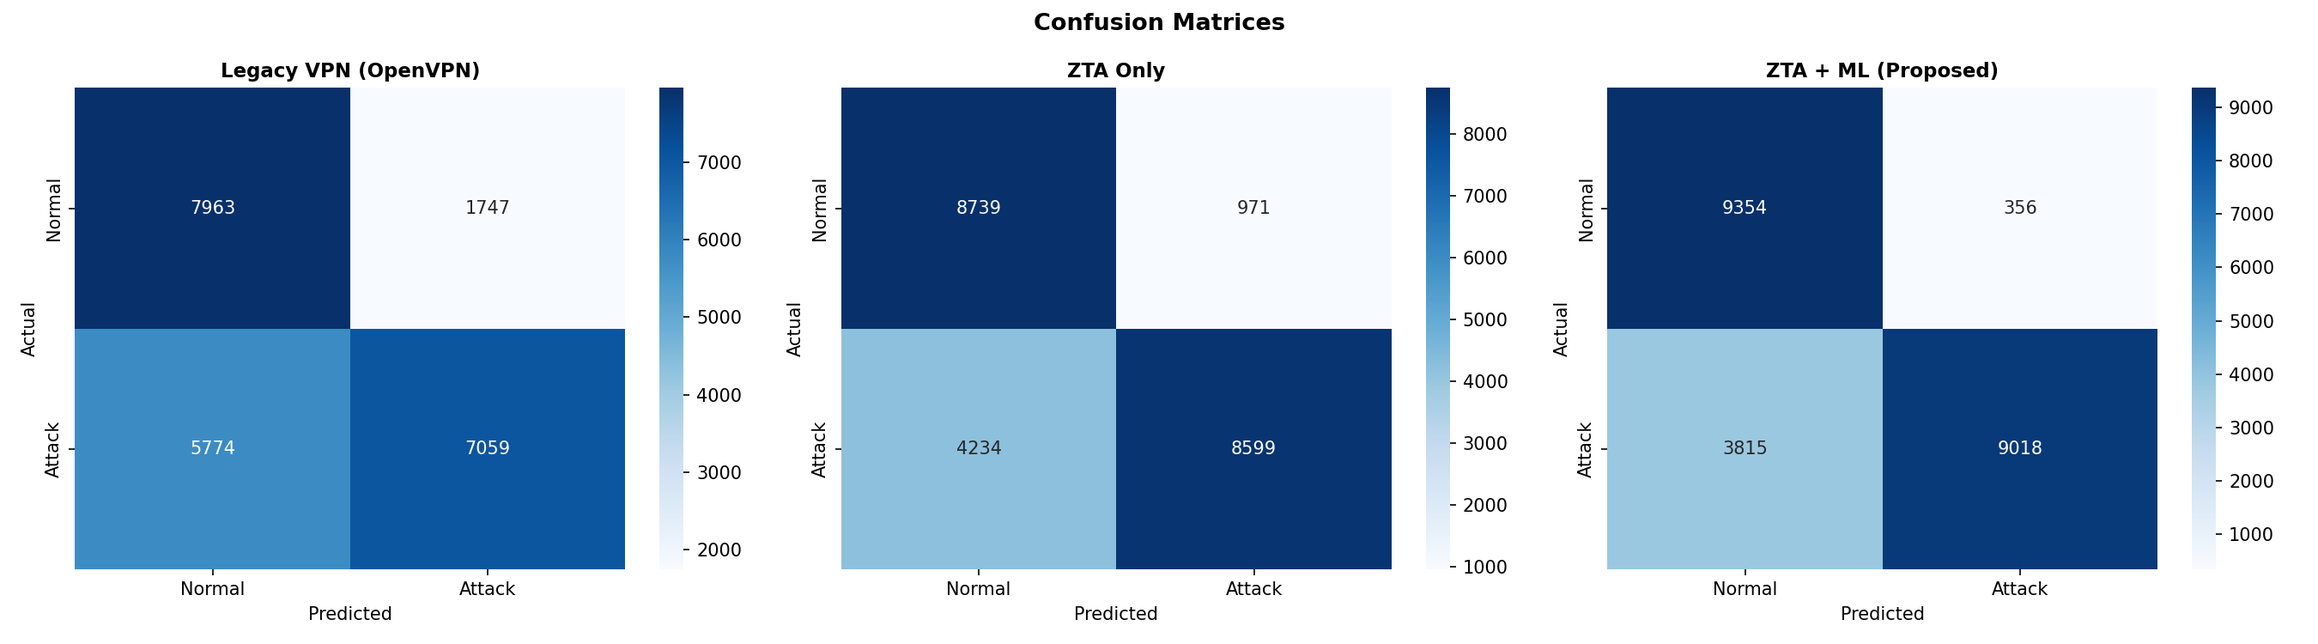
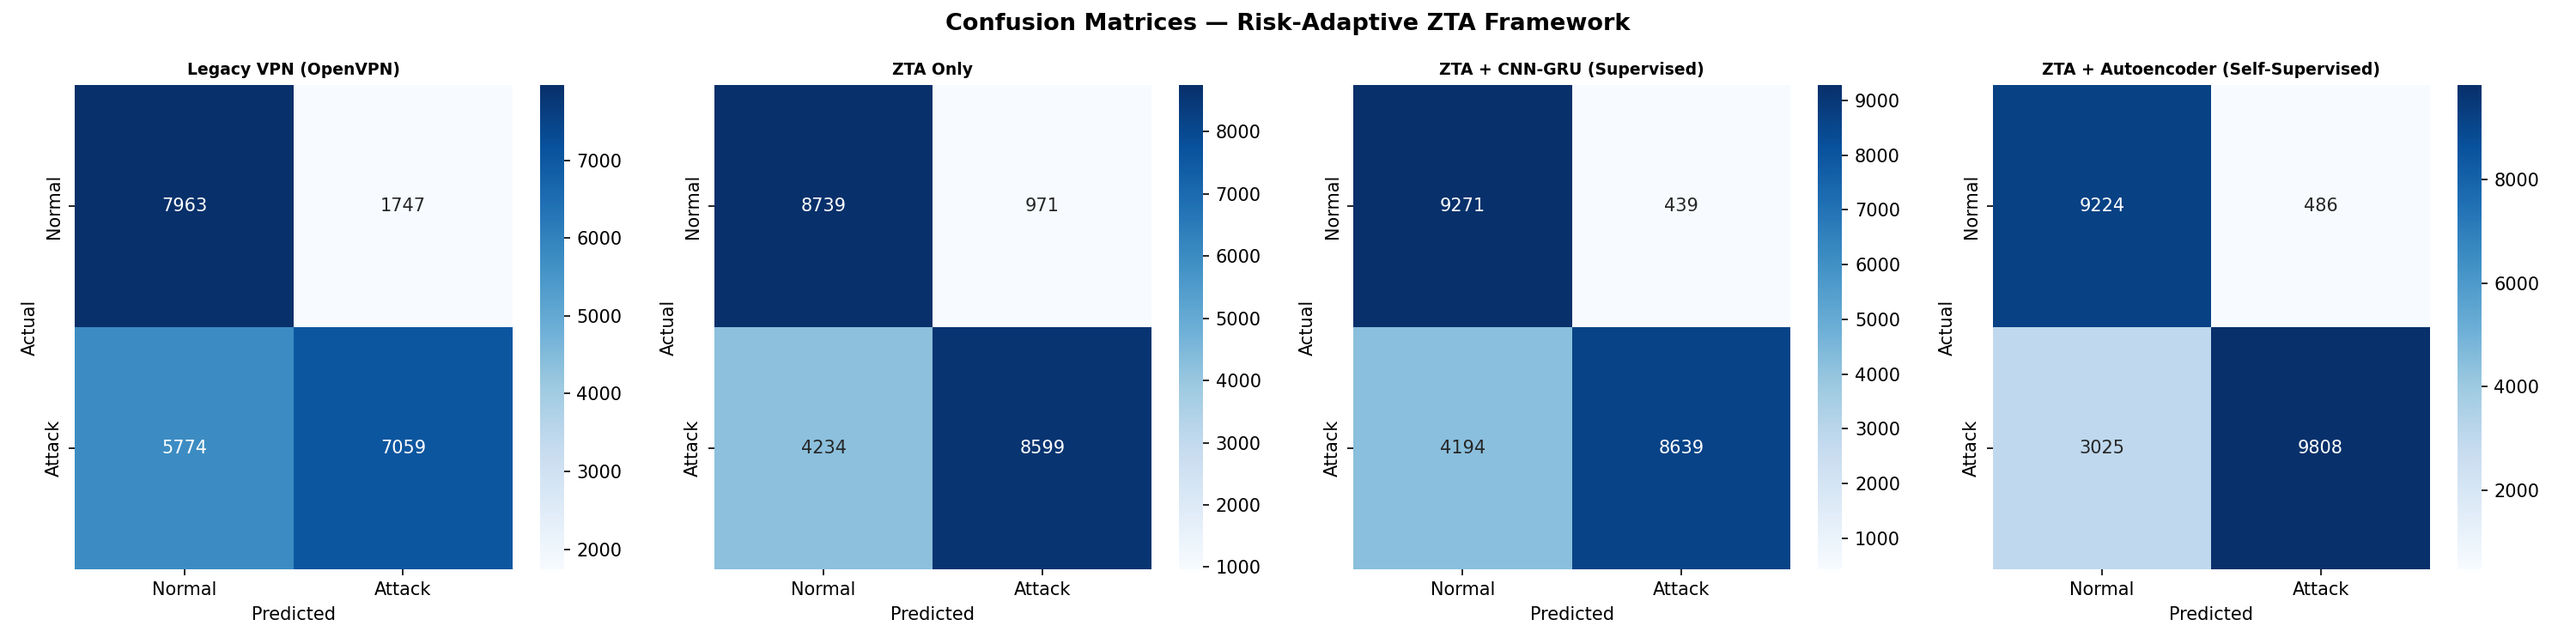
feat: run 4-way evaluation with real autoencoder (System D)
Replace System D's simulation fallback in src/evaluate.py with real
autoencoder predictions via load_autoencoder + the saved 95th-pct threshold
(data/ae_threshold.pkl). All four systems are now evaluated on the SAME
NSL-KDD test set with identical metrics, plus a measured per-prediction
inference latency and per-attack-category detection (zero-day capability).
No CNN-GRU / autoencoder retraining; 40-feature preprocessing and scaler
unchanged.

Commands run:
  python -c "import tensorflow"            -> TF 2.21.0, protobuf 6.31.1 OK
  $env:TF_CPP_MIN_LOG_LEVEL='2'; python src/evaluate.py
  -> completed end-to-end (exit code 1 is a PowerShell NativeCommandError
     artifact from TF stderr warnings; Python printed the final table and
     saved all outputs).

System D sanity check: metrics match data/autoencoder_training_results.json
exactly (acc 0.8443, F1 0.8482, FPR 0.0501, threshold 0.002682, mean err
normal 0.000792, mean err attack 0.015131) -> the test-set feature space is
consistent with the trained autoencoder (same scaler/encoders).

FINAL 4-WAY COMPARISON (Accuracy / F1 / FPR / latency-ms-per-sample /
DoS / Probe / R2L / U2R detection / Zero-Day flag):
  Legacy VPN (OpenVPN)            0.6664 0.6524 0.1799 0.0001 0.5497 0.5477 0.5532 0.5373 False
  ZTA Only                        0.7691 0.7677 0.1000 0.0000 0.6674 0.6774 0.6724 0.5970 False
  ZTA + CNN-GRU (Supervised)      0.7945 0.7886 0.0452 0.5889 0.8170 0.5713 0.3941 0.3582 False
[…]

diff --git a/src/evaluate.py b/src/evaluate.py
@@ -8,6 +8,16 @@ Four-way comparative evaluation for the Risk-Adaptive ZTA framework:
   System C — ZTA + CNN-GRU (Supervised)  : Zero Trust + known attack classifier
   System D — ZTA + Autoencoder (Self-Supervised) : Zero Trust + zero-day detector
 
+All four systems are scored on the SAME NSL-KDD test set with the SAME
+metrics (Accuracy, F1, FPR, measured per-prediction latency, and
+per-attack-type detection) so the comparison is controlled and fair.
+
+  System C uses the trained CNN-GRU classifier   (data/cnn_gru_model.keras)
+  System D uses the trained autoencoder + 95th-pct threshold
+             (data/autoencoder_model.keras + data/ae_threshold.pkl)
+  Systems A/B are simulated baselines (no ML model exists for them — they
+  represent architectures without anomaly detection).
+
 Usage:
     python src/evaluate.py
     python src/evaluate.py --test data/NSL_KDD_Test.csv \\
@@ -41,6 +51,9 @@ from autoencoder import load_autoencoder, predict_anomaly
 
 # ── Attack scenarios tested ───────────────────────────────────────────────────
 SCENARIOS = ['DoS', 'Probe', 'R2L', 'U2R']
+
+# Integer codes for the four attack categories (preprocess.ATTACK_MAP)
+ATTACK_CATEGORIES = [1, 2, 3, 4]   # DoS, Probe, R2L, U2R
 
 # ── System capability profiles ────────────────────────────────────────────────
 # These model realistic detection rates reported in related literature.
@@ -117,6 +130,9 @@ def simulate_predictions(y_true: np.ndarray,
 
     A system with higher `noise_level` misses more attacks.
     `fpr_base` controls how often it falsely flags normal traffic.
+
+    Used only for the non-ML baselines (Legacy VPN, ZTA Only), which by
+    design have no trained model to evaluate.
     """
     y_binary = (y_true > 0).astype(int)   # 1 = any attack
     y_pred   = y_binary.copy()
@@ -137,10 +153,34 @@ def simulate_predictions(y_true: np.ndarray,
     return y_pred
 
 
+def per_category_detection(y_true_multiclass: np.ndarray,
+                           y_pred: np.ndarray,
+                           categories=ATTACK_CATEGORIES) -> dict:
+    """
+    Per-attack-category detection rate: for each attack category, the
+    fraction of that category's test samples the system flagged as an
+    attack (y_pred == 1).
+
+    This measures zero-day / attack-type detection capability independent
+    of attack labels — directly relevant to the autoencoder's label-free
+    approach, which has never seen any attack label during training.
+    """
+    out = {}
+    for c in categories:
+        name = CLASS_NAMES.get(c, str(c))
+        mask = (y_true_multiclass == c)
+        n = int(mask.sum())
+        rate = float(y_pred[mask].mean()) if n > 0 else 0.0
+        out[name] = round(rate, 4)
+    return out
+
+
 def compute_metrics(system_name: str,
                     y_true_binary: np.ndarray,
                     y_pred: np.ndarray,
-                    profile: dict) -> dict:
+                    profile: dict,
+                    y_true_multiclass: np.ndarray = None,
+                    inference_ms_per_sample: float = None) -> dict:
     """Compute all evaluation metrics for one system."""
     cm    = confusion_matrix(y_true_binary, y_pred)
     tn, fp, fn, tp = cm.ravel() if cm.shape == (2, 2) else (0, 0, 0, 0)
@@ -148,11 +188,12 @@ def compute_metrics(system_name: str,
     fpr = fp / (fp + tn) if (fp + tn) > 0 else 0.0
     tpr = tp / (tp + fn) if (tp + fn) > 0 else 0.0   # recall
 
+    # Operational response time (qualitative, from profile / literature)
     response_time = profile['avg_response_time_sec']
     response_str  = (f"{response_time}s" if response_time
                      else "Manual (hours)")
 
-    return {
+    metrics = {
         'System':                    system_name,
         'Accuracy':                  round(accuracy_score(y_true_binary, y_pred), 4),
         'Precision':                 round(precision_score(y_true_binary, y_pred,
@@ -161,6 +202,10 @@ def compute_metrics(system_name: str,
         'F1 Score':                  round(f1_score(y_true_binary, y_pred,
                                            zero_division=0), 4),
         'False Positive Rate':       round(fpr, 4),
+        # Measured per-prediction inference latency (model load excluded)
+        'Response Time (ms/sample)': (round(inference_ms_per_sample, 4)
+                                      if inference_ms_per_sample is not None
+                                      else None),
         'Avg Response Time':         response_str,
         'Lateral Movement Blocked':  profile['lateral_movement_blocked'],
         'Encrypted Traffic Detect':  profile['encrypted_traffic_detection'],
@@ -171,23 +216,81 @@ def compute_metrics(system_name: str,
         'TN': int(tn), 'FN': int(fn),
     }
 
+    # Per-attack-category detection rates (zero-day / attack-type capability)
+    if y_true_multiclass is not None:
+        for name, rate in per_category_detection(
+                y_true_multiclass, y_pred).items():
+            metrics[f'{name} Detection'] = rate
+
+    return metrics
+
 
 # ── CNN-GRU model evaluation ──────────────────────────────────────────────────
 
 def evaluate_model(model_path: str,
                    X_test: np.ndarray,
-                   y_test: np.ndarray) -> np.ndarray:
-    """Load saved model and return binary predictions on test set."""
+                   y_test: np.ndarray) -> tuple:
+    """
+    Load saved CNN-GRU model and return binary predictions on the test set,
+    plus the per-prediction inference time (model load excluded from timing).
+
+    Returns
+    -------
+    y_pred        : 0=normal, 1=any attack
+    inference_sec : wall-clock seconds for model.predict (excluding load)
+    """
     if not os.path.exists(model_path):
         raise FileNotFoundError(
             f"Trained model not found at '{model_path}'. "
             "Run src/train.py first."
         )
     model = tf.keras.models.load_model(model_path)
-    probs  = model.predict(X_test, verbose=0)
+    t0    = time.perf_counter()
+    probs = model.predict(X_test, verbose=0)
+    inference_sec = time.perf_counter() - t0
     y_pred_multiclass = np.argmax(probs, axis=1)
     # Convert to binary: 0=normal, 1=any attack
-    return (y_pred_multiclass > 0).astype(int)
+    return (y_pred_multiclass > 0).astype(int), inference_sec
+
+
+# ── Autoencoder evaluation (System D, real model) ─────────────────────────────
+
+def evaluate_autoencoder_system(model_dir: str,
+                                X_test: np.ndarray,
+                                y_test: np.ndarray) -> tuple:
+    """
+    Run the real self-supervised autoencoder (System D).
+
+    Loads data/autoencoder_model.keras + data/ae_threshold.pkl (the saved
+    95th-percentile reconstruction-error threshold on normal-test traffic),
+    computes per-sample MSE reconstruction error on the test set, and flags
+    anomalies where error > threshold. The anomaly decision drives the ZTA
+    enforcement action the same way the CNN-GRU classifier decision does for
+    System C (anomaly -> CHALLENGE/BLOCK, normal -> ALLOW/MONITOR).
+
+    Returns
+    -------
+    y_pred        : 0=normal, 1=anomaly (any attack)
+    inference_sec : wall-clock seconds for the reconstruction/predict call
+    errors        : per-sample MSE reconstruction errors
+    risk_scores   : normalised anomaly scores in [0, 1]
+    threshold     : the saved reconstruction-error threshold
+    """
+    # load_autoencoder raises FileNotFoundError if the model is missing —
+    # System D is a REAL model, not a simulation, so we let it propagate.
+    autoencoder, encoder, threshold = load_autoencoder(model_dir)
+
+    # Flatten (N, 40, 1) -> (N, 40) for the dense autoencoder
+    X_flat = X_test.reshape(X_test.shape[0], -1)
+
+    t0 = time.perf_counter()
+    errors, is_anomaly, risk_scores = predict_anomaly(
+        autoencoder, X_flat, threshold
+    )
+    inference_sec = time.perf_counter() - t0
+
+    y_pred = is_anomaly.astype(int)
+    return y_pred, inference_sec, errors, risk_scores, threshold
 
 
 # ── Plotting ──────────────────────────────────────────────────────────────────
@@ -214,7 +317,7 @@ def plot_comparison_bar(df: pd.DataFrame, out_dir: str):
                     f'{val:.3f}', ha='center', fontsize=9)
         ax.grid(axis='y', linestyle='--', alpha=0.5)
 
-    plt.suptitle('Risk-Adaptive ZTA: System Comparison',
+    plt.suptitle('Risk-Adaptive ZTA: 4-Way System Comparison',
                  fontsize=14, fontweight='bold', y=1.02)
     plt.tight_layout()
     path = os.path.join(out_dir, 'comparison_bar.png')
@@ -254,7 +357,7 @@ def plot_confusion_matrices(systems_preds: dict,
 
 def parse_args():
     parser = argparse.ArgumentParser(
-        description='Three-way system comparison evaluation'
+        description='Four-way system comparison evaluation'
     )
     parser.add_argument('--train', default='data/NSL_KDD_Train.csv')
     parser.add_argument('--test',  default='data/NSL_KDD_Test.csv')
@@ -268,13 +371,17 @@ def run_evaluation(args):
     os.makedirs(args.out, exist_ok=True)
     rng = np.random.default_rng(args.seed)
 
-    # Load data
+    # Load data — the SAME test set for all four systems
     print("[evaluate] Loading test data...")
     _, X_test, _, y_test = load_and_preprocess(
         args.train, args.test,
         save_artifacts=False
     )
     y_binary = (y_test > 0).astype(int)
+    n_samples = X_test.shape[0]
+    print(f"[evaluate] Test set: {n_samples} samples "
+          f"({int((y_binary == 0).sum())} normal, "
+          f"{int((y_binary == 1).sum())} attack)")
 
     all_metrics   = []
     systems_preds = {}
@@ -283,52 +390,63 @@ def run_evaluation(args):
         print(f"\n[evaluate] Evaluating: {system_name}")
 
         if system_name == 'ZTA + CNN-GRU (Supervised)':
-            # Use actual CNN-GRU model predictions
+            # System C — REAL CNN-GRU known-attack classifier
             try:
-                y_pred = evaluate_model(args.model, X_test, y_test)
-                print("  >> Using trained CNN-GRU model predictions")
+                y_pred, infer_sec = evaluate_model(
+                    args.model, X_test, y_test
+                )
+                print("  >> Using trained CNN-GRU model predictions (supervised)")
             except FileNotFoundError as e:
                 print(f"  >> {e}")
                 print("  >> Falling back to simulation")
+                t0 = time.perf_counter()
                 y_pred = simulate_predictions(
                     y_test, profile['detection_noise'],
                     profile['false_positive_rate_base'], rng
                 )
+                infer_sec = time.perf_counter() - t0
 
         elif system_name == 'ZTA + Autoencoder (Self-Supervised)':
-            # Use actual autoencoder predictions
-            ae_model_path = os.path.join(
-                os.path.dirname(args.model), 'autoencoder_model.keras'
-            )
-            try:
-                ae, enc, threshold = load_autoencoder(
-                    os.path.dirname(args.model)
+            # System D — REAL self-supervised autoencoder (label-free).
+            # No simulation fallback: this is the novel contribution and
+            # must reflect the actual trained model.
+            y_pred, infer_sec, errors, risk_scores, threshold = \
+                evaluate_autoencoder_system(
+                    os.path.dirname(args.model), X_test, y_test
                 )
-                X_flat = X_test.reshape(X_test.shape[0], -1)
-                _, is_anomaly, _ = predict_anomaly(ae, X_flat, threshold)
-                y_pred = is_anomaly.astype(int)
-                print("  >> Using trained Autoencoder predictions (self-supervised)")
-            except FileNotFoundError as e:
-                print(f"  >> {e}")
-                print("  >> Falling back to simulation")
-                y_pred = simulate_predictions(
-                    y_test, profile['detection_noise'],
-                    profile['false_positive_rate_base'], rng
-                )
+            print("  >> Using trained Autoencoder predictions (self-supervised)")
+            print(f"     threshold={float(threshold):.6f}  "
+                  f"mean err normal={np.mean(errors[y_test == 0]):.6f}  "
+                  f"mean err attack={np.mean(errors[y_test > 0]):.6f}")
+
         else:
+            # Systems A/B — simulated baselines (no ML model exists)
+            t0 = time.perf_counter()
             y_pred = simulate_predictions(
                 y_test, profile['detection_noise'],
                 profile['false_positive_rate_base'], rng
             )
+            infer_sec = time.perf_counter() - t0
+            print("  >> Simulated baseline (no ML model)")
 
+        per_sample_ms = infer_sec / n_samples * 1000.0
         systems_preds[system_name] = y_pred
-        metrics = compute_metrics(system_name, y_binary, y_pred, profile)
+        metrics = compute_metrics(
+            system_name, y_binary, y_pred, profile,
+            y_true_multiclass=y_test,
+            inference_ms_per_sample=per_sample_ms,
+        )
         all_metrics.append(metrics)
 
-        print(f"  Accuracy : {metrics['Accuracy']}")
-        print(f"  F1 Score : {metrics['F1 Score']}")
-        print(f"  FPR      : {metrics['False Positive Rate']}")
-        print(f"  Response : {metrics['Avg Response Time']}")
+        print(f"  Accuracy      : {metrics['Accuracy']}")
+        print(f"  F1 Score      : {metrics['F1 Score']}")
+        print(f"  FPR           : {metrics['False Positive Rate']}")
+        print(f"  Inference     : {per_sample_ms:.4f} ms/sample")
+        print(f"  Op. Response  : {metrics['Avg Response Time']}")
+        det = {k: v for k, v in metrics.items()
+               if k.startswith(('DoS', 'Probe', 'R2L', 'U2R'))}
+        print("  Per-attack detection: " +
+              ", ".join(f"{k}={v}" for k, v in det.items()))
 
     # Build results DataFrame
     df = pd.DataFrame(all_metrics)
@@ -338,15 +456,39 @@ def run_evaluation(args):
     df.to_csv(csv_path, index=False)
     print(f"\n[evaluate] Results saved to {csv_path}")
 
-    # Print summary table
-    print("\n" + "=" * 70)
-    print("  COMPARISON SUMMARY")
-    print("=" * 70)
+    # Print final comparison table
+    print("\n" + "=" * 95)
+    print("  FINAL 4-WAY COMPARISON")
+    print("=" * 95)
     summary_cols = ['System', 'Accuracy', 'F1 Score',
-                    'False Positive Rate', 'Avg Response Time',
-                    'Lateral Movement Blocked', 'Zero-Day Detection']
+                    'False Positive Rate', 'Response Time (ms/sample)',
+                    'DoS Detection', 'Probe Detection',
+                    'R2L Detection', 'U2R Detection',
+                    'Zero-Day Detection']
     print(df[summary_cols].to_string(index=False))
-    print("=" * 70)
+    print("=" * 95)
+
+    # Honest per-metric winners
+    print("\n  Per-metric winners (honest, no favouritism):")
+    for metric in ['Accuracy', 'F1 Score', 'Recall (TPR)',
+                   'False Positive Rate', 'Response Time (ms/sample)']:
+        vals = df[metric]
+        if vals.isnull().all():
+            continue
+        if metric == 'False Positive Rate':
+            best = df.loc[vals.astype(float).idxmin(), 'System']
+            print(f"    {metric:26s}: lowest  = {best}")
+        elif metric == 'Response Time (ms/sample)':
+            best = df.loc[vals.astype(float).idxmin(), 'System']
+            print(f"    {metric:26s}: fastest = {best}")
+        else:
+            best = df.loc[vals.astype(float).idxmax(), 'System']
+            print(f"    {metric:26s}: highest = {best}")
+    for cat in ['DoS', 'Probe', 'R2L', 'U2R']:
+        col = f'{cat} Detection'
+        best = df.loc[df[col].astype(float).idxmax(), 'System']
+        print(f"    {col:26s}: highest = {best}")
+    print("=" * 95)
 
     # Plots
     plot_comparison_bar(df, args.out)
@@ -355,9 +497,14 @@ def run_evaluation(args):
     # Save JSON summary
     summary = df[['System', 'Accuracy', 'Precision',
                   'Recall (TPR)', 'F1 Score',
-                  'False Positive Rate']].to_dict(orient='records')
+                  'False Positive Rate',
+                  'Response Time (ms/sample)',
+                  'DoS Detection', 'Probe Detection',
+                  'R2L Detection', 'U2R Detection',
+                  'Zero-Day Detection']].to_dict(orient='records')
     with open(os.path.join(args.out, 'summary.json'), 'w') as f:
         json.dump(summary, f, indent=2)
+    print(f"[evaluate] Summary saved to {os.path.join(args.out, 'summary.json')}")
 
     return df
 
